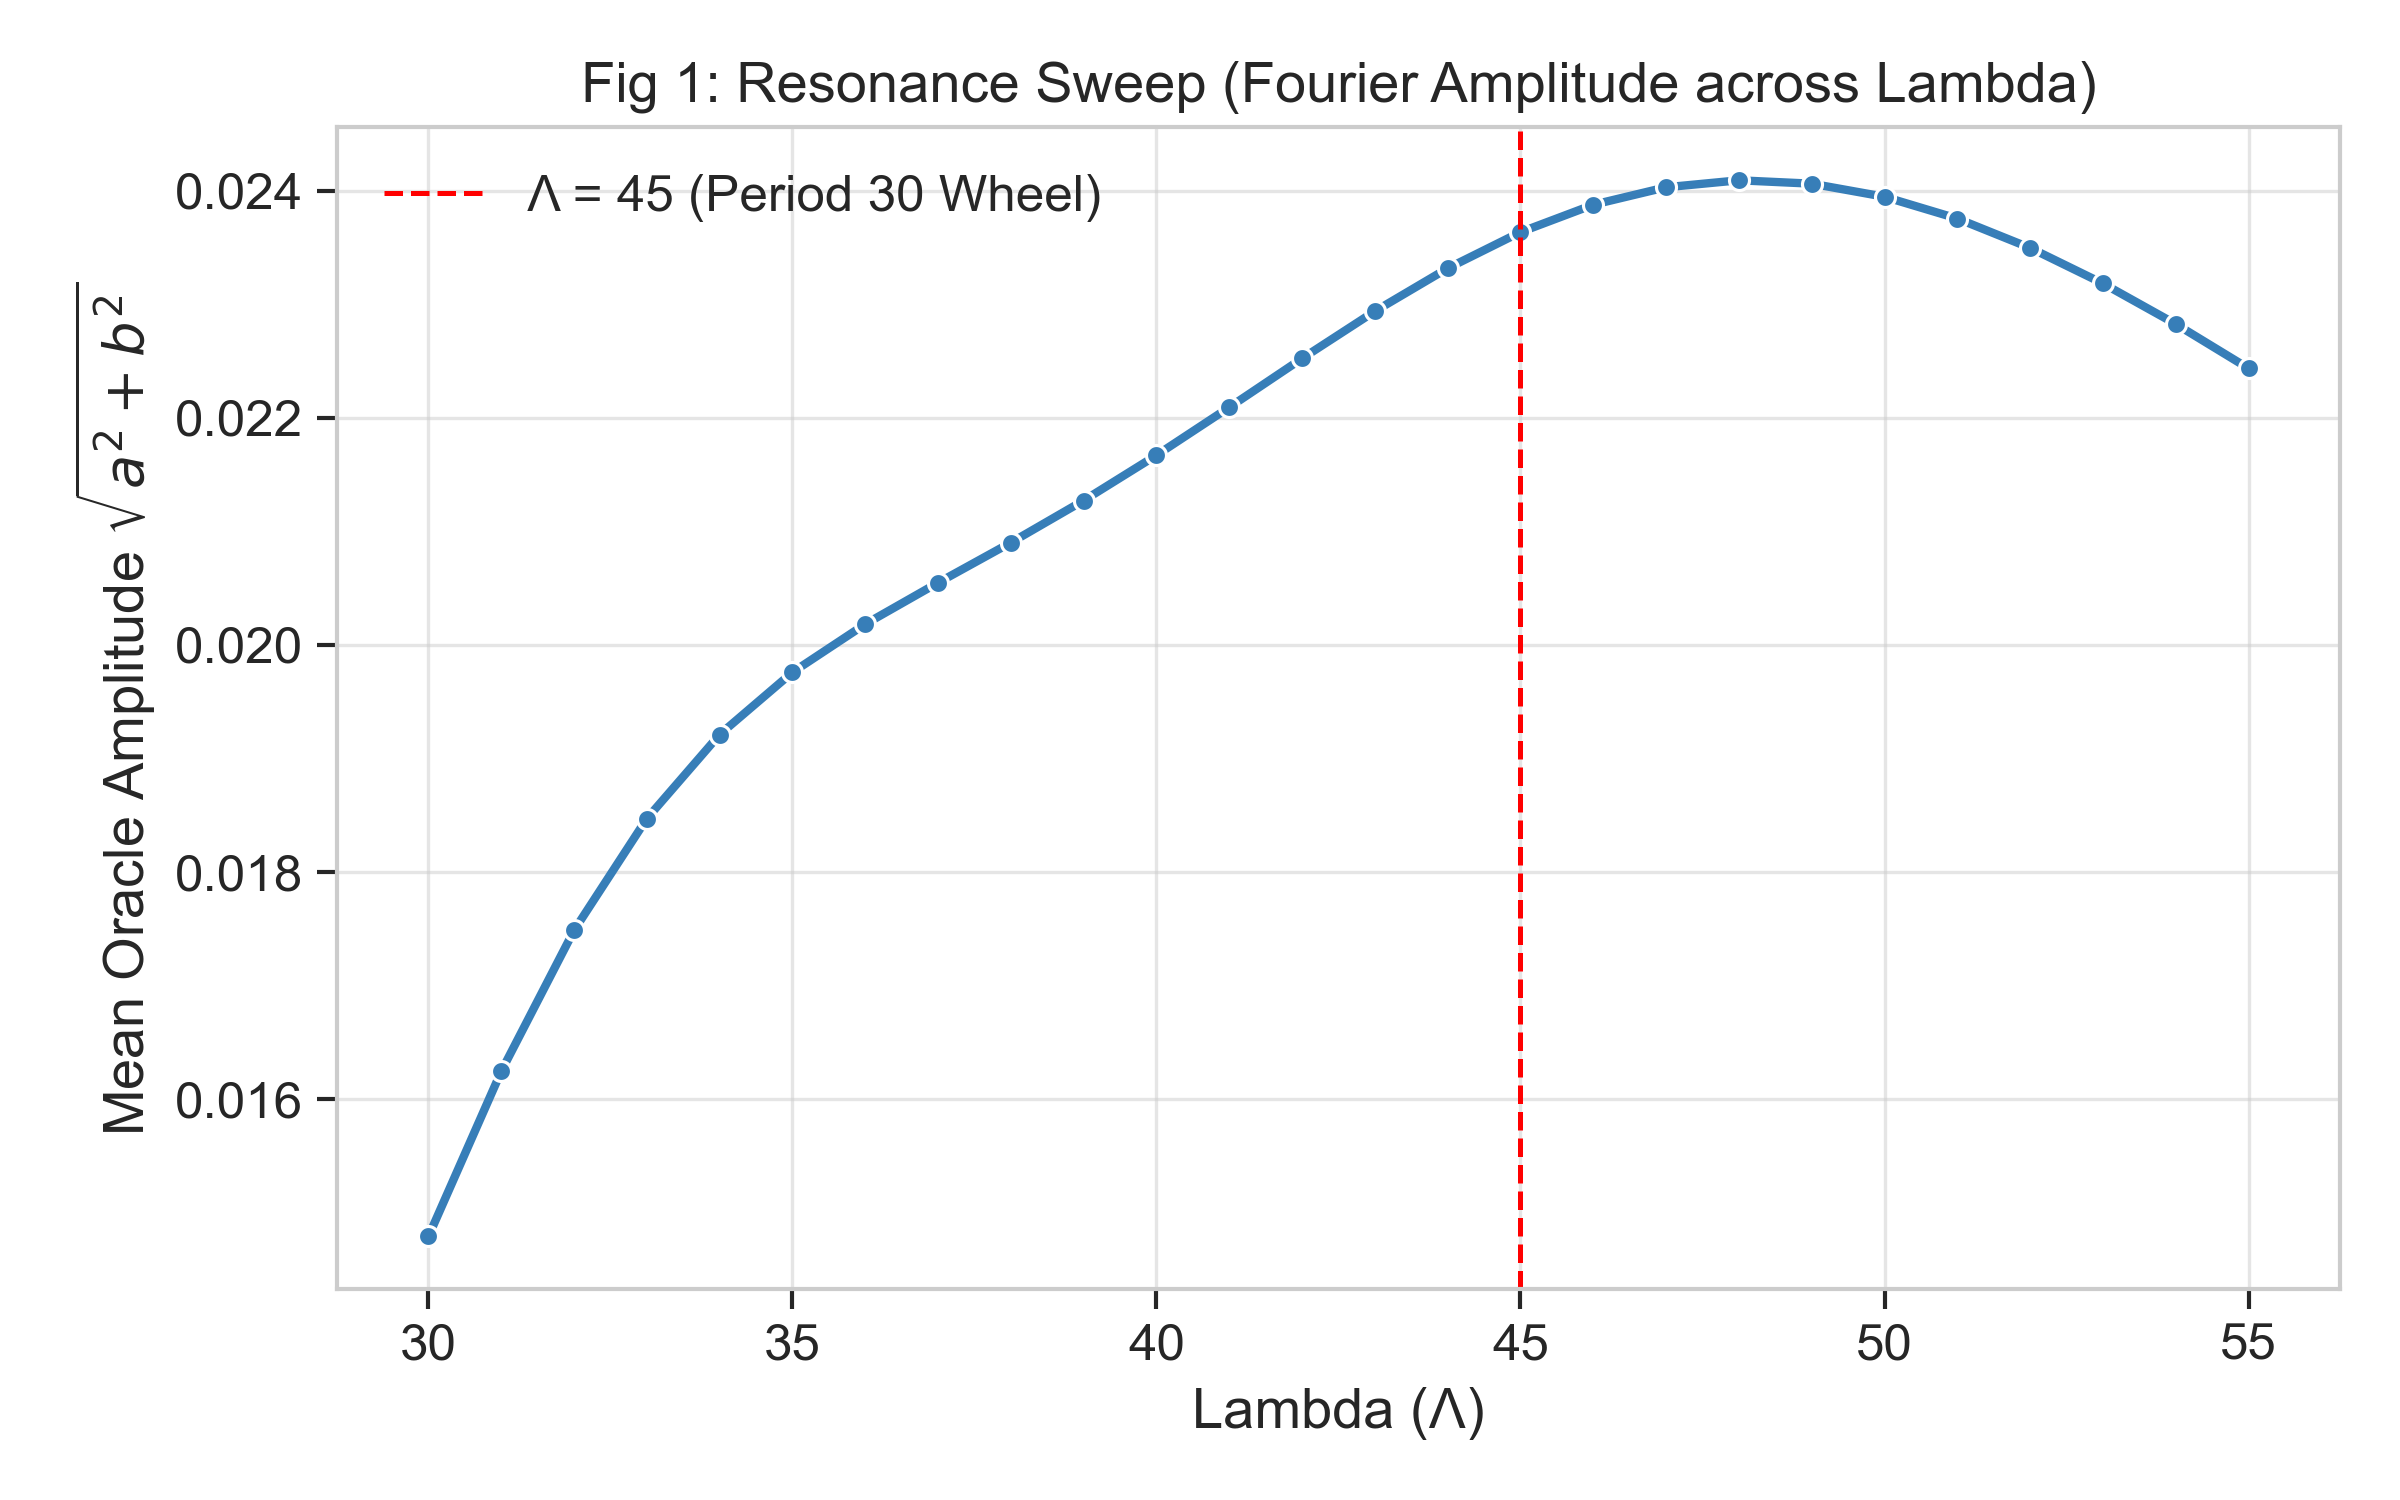
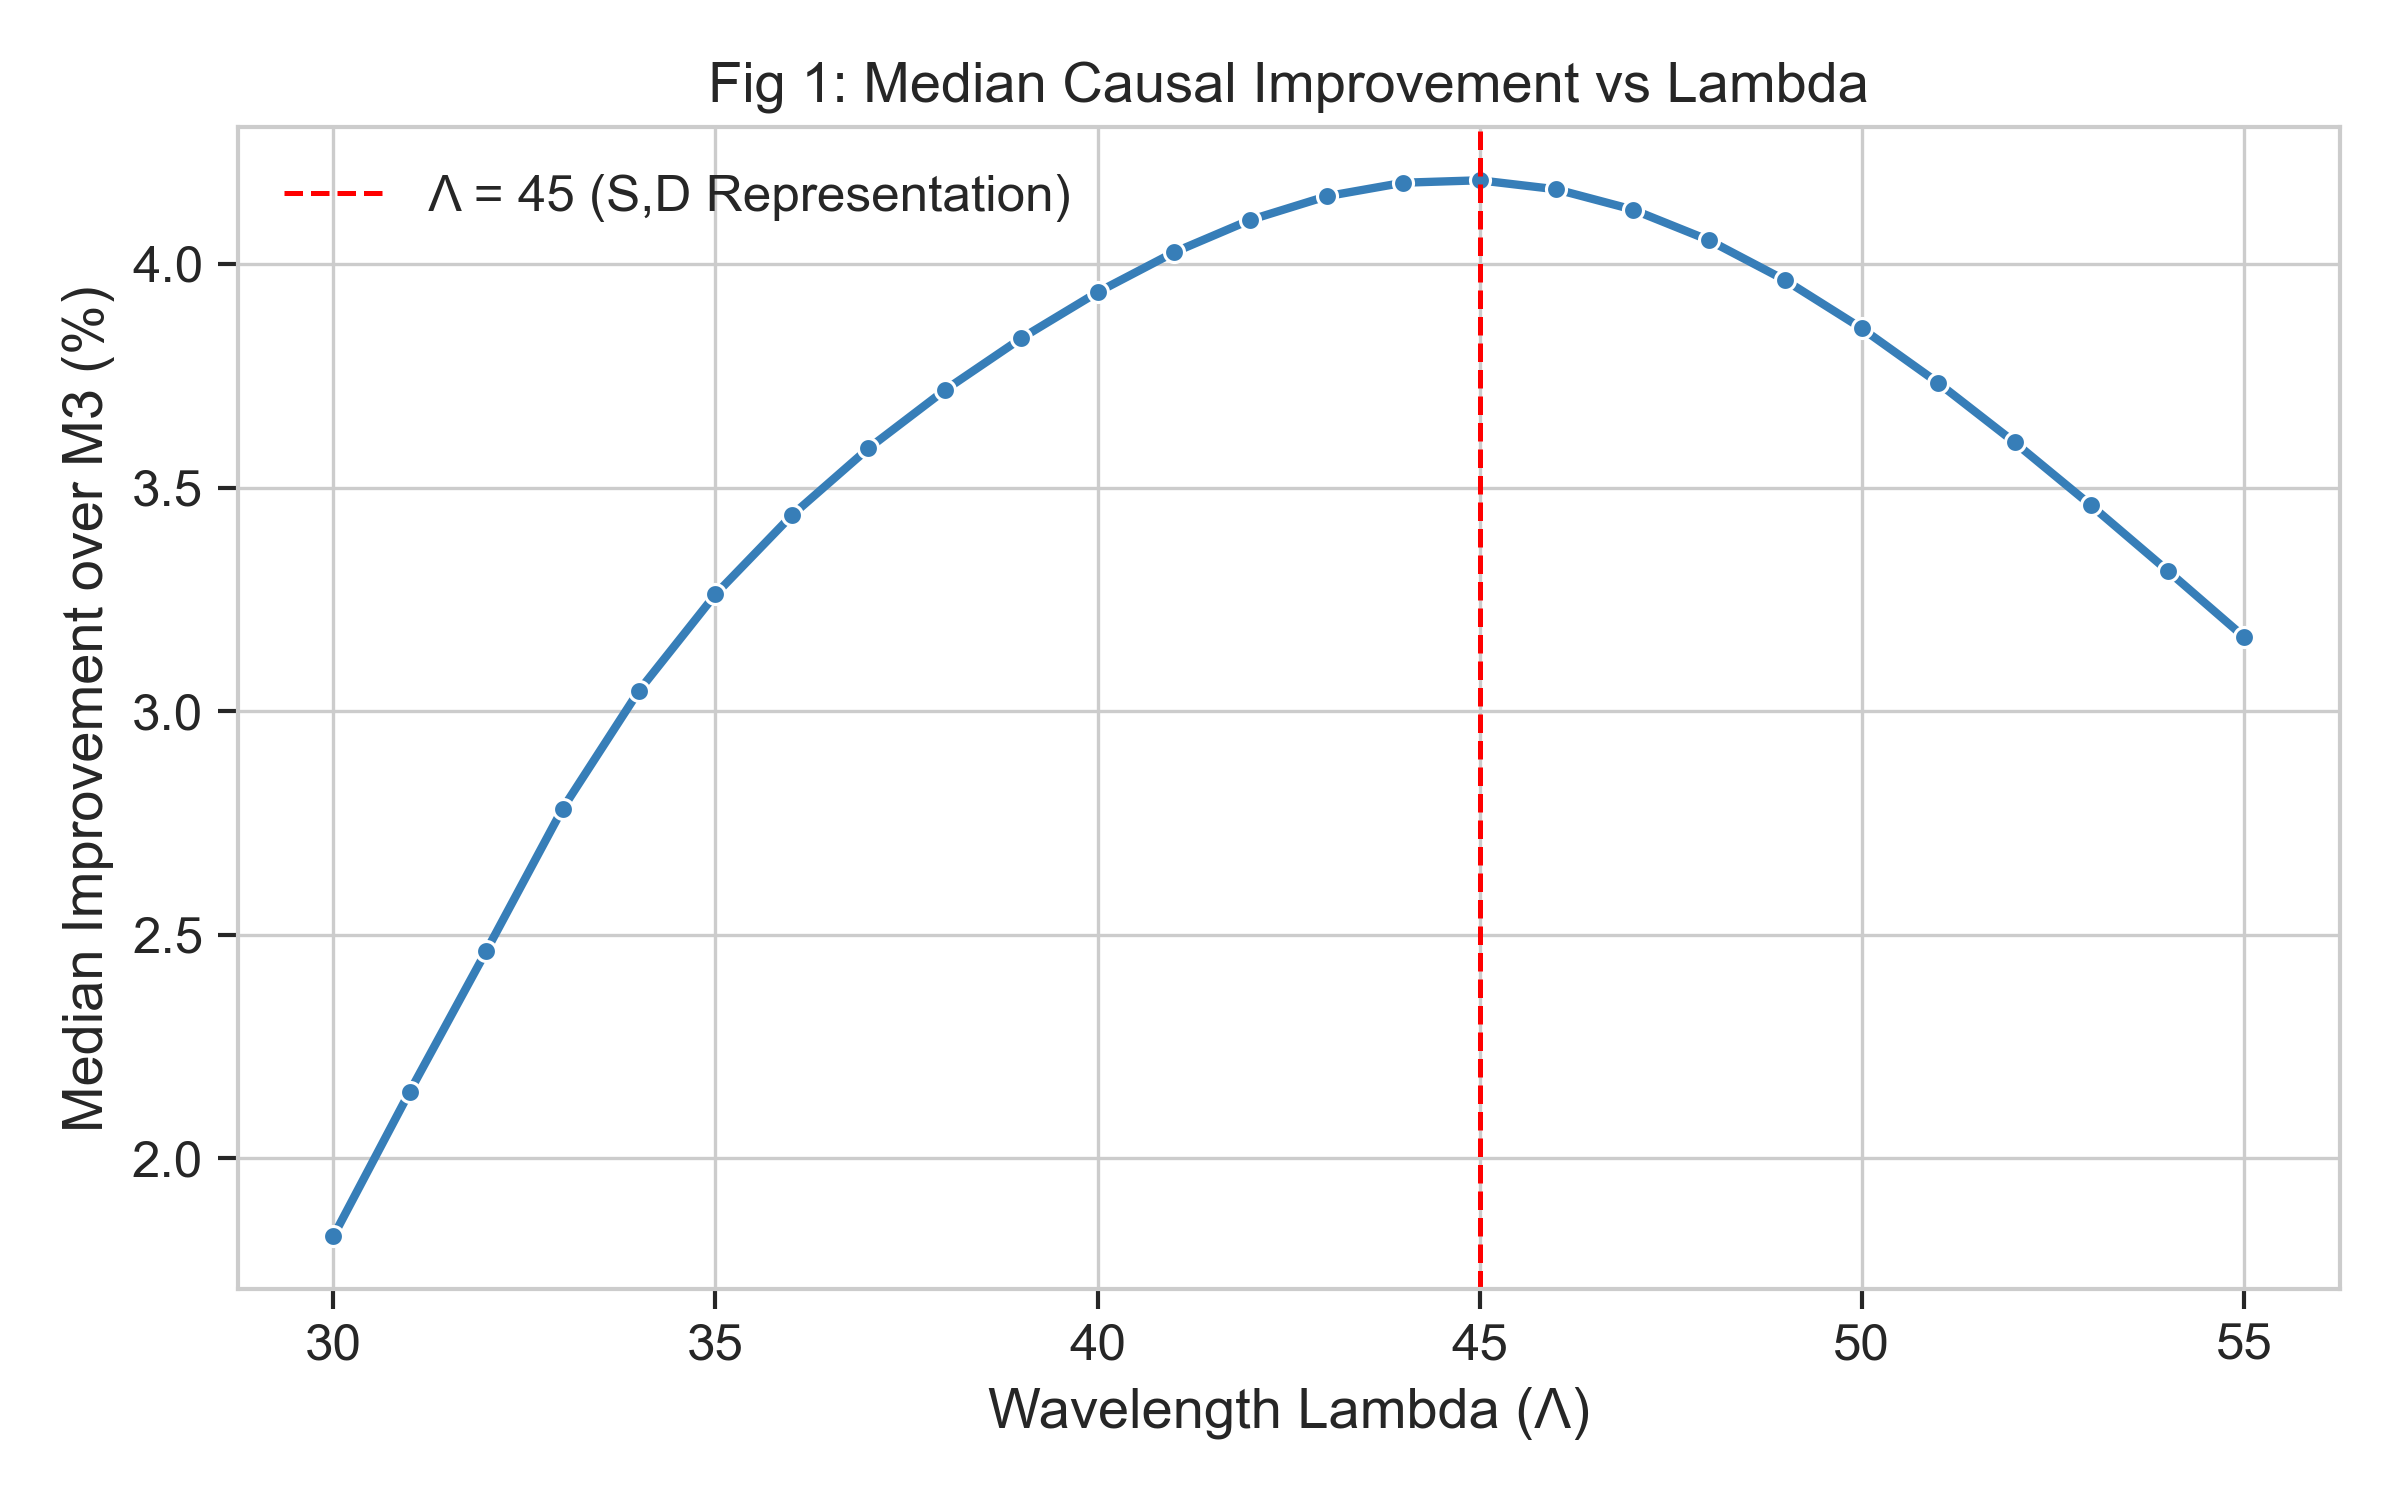
feat: Improvements to the text and more descriptive graphics

diff --git a/src/reproduce_figures.py b/src/reproduce_figures.py
@@ -22,25 +22,39 @@ def ensure_dir(d):
     if not os.path.exists(d): os.makedirs(d)
 
 def plot_lambda_sweep():
-    """1. Lambda sweep Λ=30..55: Muestra el pico de resonancia calculando la Amplitud de Fourier."""
-    file_path = "data/v41c_coef_audit.csv"
-    if not os.path.exists(file_path): return
+    """1. Lambda sweep Λ=30..55: Shows the causal improvement peak at 45."""
+    file_path = "data/v41c_sweep_and_nulls.csv"
+    if not os.path.exists(file_path):
+        print(f"⚠ Warning: {file_path} is missing. Make sure to put it in the data folder./")
+        return
 
-    df = pd.read_csv(file_path)
-    df['oracle_amplitude'] = np.sqrt(df['a_oracle']**2 + df['b_oracle']**2)
-    df_agg = df.groupby('Lambda')['oracle_amplitude'].mean().reset_index()
+    df = pd.read_csv(file_path, sep=',')
+
+    # Extract columns starting with 'L_' (excluding the ground truth 'L45_actual')
+    lambda_cols = [c for c in df.columns if c.startswith('L_') and c != 'L45_actual']
+
+    # Calculate the median improvement for each Lambda across all test blocks
+    median_improvements = df[lambda_cols].median()
+
+    # Create a clean DataFrame for the plotting engine
+    # We extract the numerical value of Lambda from the column name (e.g., 'L_30.0' -> 30.0)
+    lambdas = [float(c.split('_')[1]) for c in lambda_cols]
+    plot_df = pd.DataFrame({
+        'Lambda': lambdas,
+        'Improvement_Pct': median_improvements.values
+    })
 
     plt.figure(figsize=(8, 5))
-    sns.lineplot(data=df_agg, x='Lambda', y='oracle_amplitude', marker='o', color=colors[1], linewidth=2)
-    plt.axvline(45, color='red', linestyle='--', label='Λ = 45 (Period 30 Wheel)')
-    
-    plt.title("Fig 1: Resonance Sweep (Fourier Amplitude across Lambda)")
-    plt.xlabel("Lambda (Λ)")
-    plt.ylabel("Mean Oracle Amplitude $\\sqrt{a^2 + b^2}$")
+    sns.lineplot(data=plot_df, x='Lambda', y='Improvement_Pct', marker='o', color=colors[1], linewidth=2)
+    plt.axvline(45, color='red', linestyle='--', label='Λ = 45 (S,D Representation)')
+
+    plt.title("Fig 1: Median Causal Improvement vs Lambda")
+    plt.xlabel("Wavelength Lambda (Λ)")
+    plt.ylabel("Median Improvement over M3 (%)")
     plt.legend()
     plt.tight_layout()
     plt.savefig("figures/fig1_lambda_sweep.png", dpi=300)
-    print("✅ Fig 1 generated.")
+    print("✅ Fig 1 generated (Median Causal Improvement vs Lambda).")
 
 def plot_v44b_audit_overview():
     """2. V44b audit bar chart: Muestra el impacto macro (M3) vs micro (R45)."""

diff --git a/README.md b/README.md
@@ -20,7 +20,7 @@ $$\Delta(S,D;p) = E_0(S) + U(S,D;t) + R_{45}(S,D;t)$$
 Where:
 1. **`M0`** = $E_0(S)$: Static geometric envelope.
 2. **`M3`** = $E_0(S) + U(S,D;t)$: Smooth scale-dependent drift (macroscopic expansion).
-3. **`R45`** = $R_{45}(S,D;t)$: Modular resonance anchored to a period of $\Lambda=45$ semi-gaps.
+3. **`R45`** = $R_{45}(S,D;t)$: Modular resonance with wavelength $\Lambda=45$ in the $S,D$ coordinate representation.
 
 ## Reproducibility and Usage
 
@@ -37,14 +37,14 @@ The script `v44_primes_predictor_frozen.py` contains the frozen asymptotic laws.
 python src/v44_primes_predictor_frozen.py --show-formula
 ```
 
-**2. Audit the Causal Validation:**
-To reproduce the tables from the paper against the controls (`SmoothNested`, `Full2D`, and `Null/D-shuffle`):
+**2. Audit the Frozen Model:**
+To verify the error reduction of the isolated Three-Layer equation (M0, M3, R45) on the provided sample data:
 ```bash
 python src/audit_v44b.py
 ```
 
 **3. Reproduce the Paper's Figures:**
-To generate the high-resolution charts used in the Whitepaper:
+To generate the high-resolution charts used in the Whitepaper, including the comparisons against historical controls (SmoothNested, Full2D, and Null/D-shuffle), the script uses the aggregated historical data provided in the data/ folder:
 ```bash
 python src/reproduce_figures.py
 ```

diff --git a/WHITEPAPER.md b/WHITEPAPER.md
@@ -188,7 +188,7 @@ $$
 \sin\left(\frac{2\pi A}{T}\right) + \sin\left(\frac{2\pi B}{T}\right) = 2 \sin\left(\frac{\pi S}{2T}\right) \cos\left(\frac{\pi D}{2T}\right).
 $$
 
-Thus a symmetric oscillation in the two semi-gaps becomes an even-in-$D$ product in the $S,D$ coordinates.
+Thus a symmetric oscillation in the two semi-gaps becomes an even in \(D\) product in the $S,D$ coordinates.
 
 The empirically observed resonant term is written directly as
 
@@ -196,7 +196,7 @@ $$
 R_{45}(S,D;t) = \cos\left(\frac{\pi D}{45}\right) \left[ a(t)\sin\left(\frac{\pi S}{45}\right) + b(t)\cos\left(\frac{\pi S}{45}\right) \right].
 $$
 
-This structure was compared against a more flexible Full2D form containing both even and odd terms in $D$. The Full2D form did not materially improve performance, supporting the separable even-in-$D$ structure.
+This structure was compared against a more flexible Full2D form containing both even and odd terms in \(D\). The Full2D form did not materially improve performance, supporting the separable structure that is even in \(D\).
 
 ---
 
